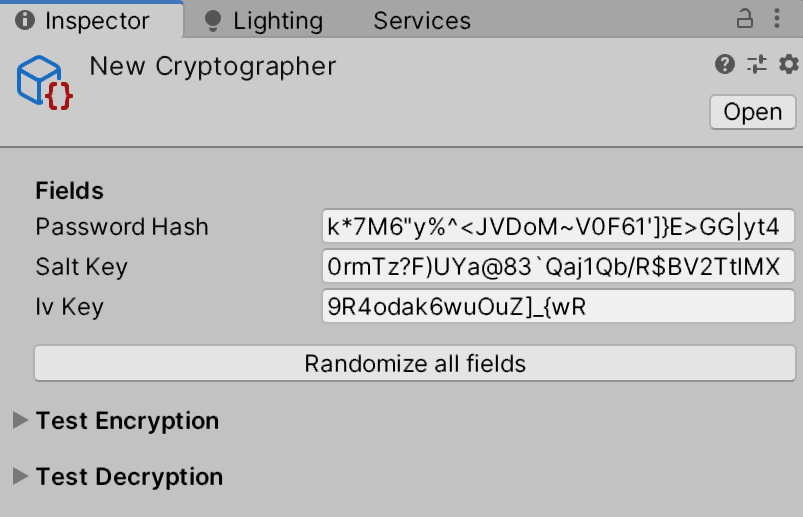
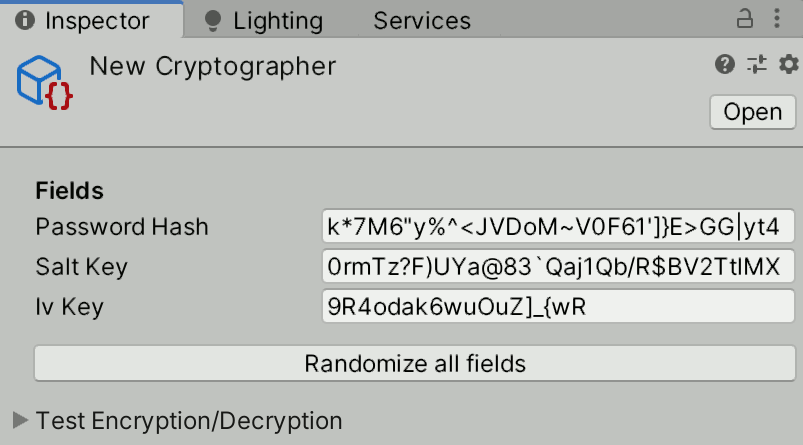
Updating documentation on String Cryptographer.

diff --git a/Documentation~/manual/string-cryptographer.md b/Documentation~/manual/string-cryptographer.md
@@ -28,11 +28,11 @@ Don't forget to save the project after making edits to the file, so the changes 
 
 ### Testing the asset
 
-The inspector provides the user a chance to test how well the String Cryptographer encrypts and decrypts in the two groups of fields at the bottom foldouts. Simply click on the `Test Encryption` and/or `Test Decryption` to expand them.
+The inspector provides the user a chance to test how well the String Cryptographer encrypts and decrypts in the two groups of fields at the bottom foldouts. Simply click on the `Test Encryption/Decryption` to expand them.
 
 ![Asset Test Fields](https://omiyagames.github.io/omiya-games-cryptography/resources/string-cryptographer/test-asset.png)
 
-For testing encryption, simply enter your text in the input field, and hit enter. The output field will contain the encrypted result. Similarly, for decryption, enter the encrypted text in the input field to get the decrypted text in the output field. Do note that text in the output fields can be copied onto the clipboard (e.g. by tapping ctrl+V on Windows and Linux OS).
+For testing encryption, simply enter your text in the input field, then click `Encrypt`. The output field below will contain the encrypted result. Similarly, for decryption, enter the encrypted text in the input field, then click `Decrypt`. Note the input text field accepts text with multiple lines as well: just hit enter to add a newline. Finally, text in the output fields is read-only: one can highlight and copy the text (e.g. by tapping ctrl+V on Windows and Linux OS), or simply click the `Copy to Clipboard` button to do the same thing.
 
 ## Using the asset in a script
 
